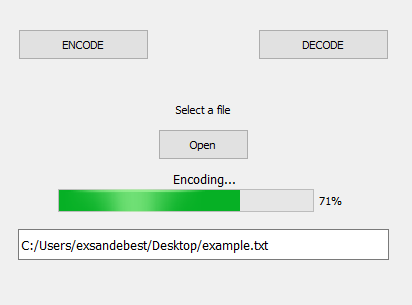
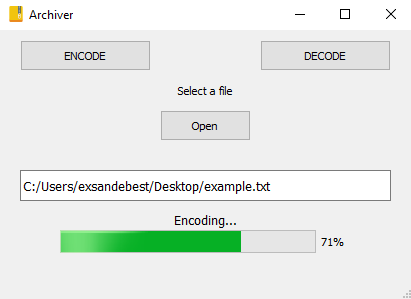
Update size and example screenshot

diff --git a/mainwindow.cpp b/mainwindow.cpp
@@ -31,6 +31,7 @@ MainWindow::MainWindow(QWidget *parent)
     , ui(new Ui::MainWindow)
 {
     ui->setupUi(this);
+    this->setFixedSize(414, 264);
     ui->progressBar->hide();
     ui->lbl_process->hide();
 }
